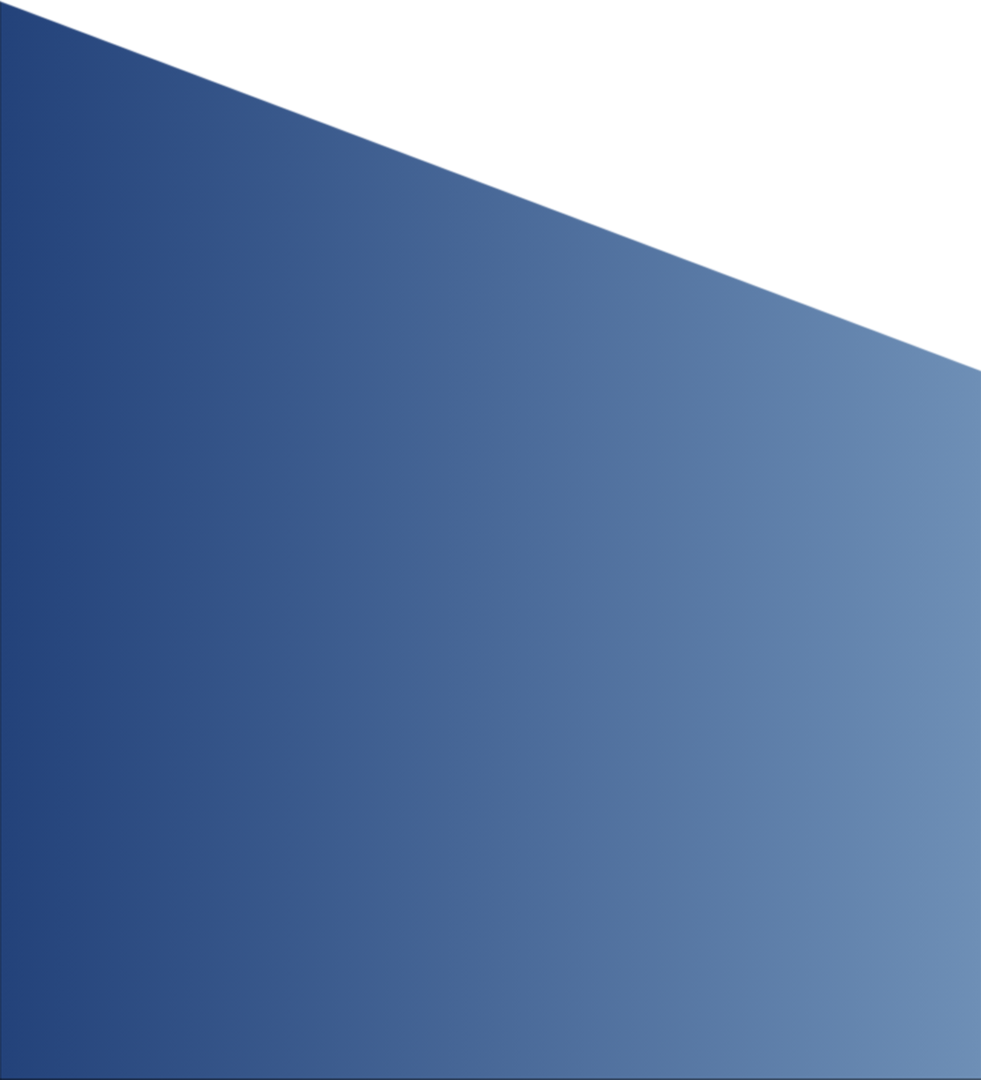
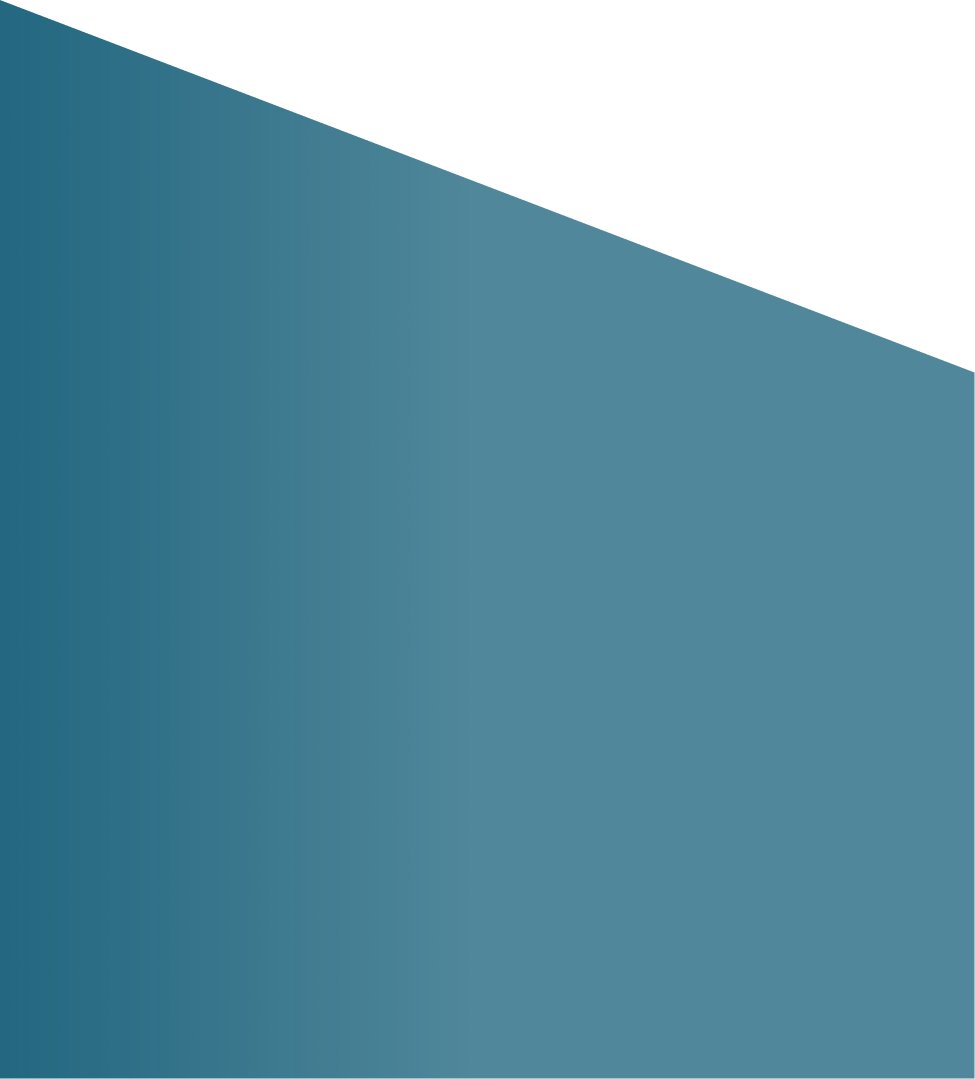
feat: create header

diff --git a/assets/css/global/global.css b/assets/css/global/global.css
@@ -4,8 +4,8 @@
   --cor-branco: #ffffff;
   --cor-preto: #000000;
 
-  --cor-degrade-claro: linear-gradient(90deg, #c8d9e1, #7ca3b8);
-  --cor-degrade-claro-webkit: -webkit-linear-gradient(90deg, #c8d9e1, #7ca3b8);
+  --cor-degrade-claro: linear-gradient(90deg, #6a99a9, #9cbbc6);
+  --cor-degrade-claro-webkit: -webkit-linear-gradient(90deg, #6a99a9, #9cbbc6);
   --cor-degrade-escuro: linear-gradient(90deg, #085571, #39768d);
   --cor-degrade-escuro-webkit: -webkit-linear-gradient(90deg, #085571, #39768d);
   --cor-degrade-branco: linear-gradient(90deg, #e3e3ee, #ffffff);
@@ -13,8 +13,8 @@
 
   --cor-azul-escuro-1: #085571;
   --cor-azul-escuro-2: #39768d;
-  --cor-azul-claro-1: #c8d9e1;
-  --cor-azul-claro-2: #7ca3b8;
+  --cor-azul-claro-1: #6a99a9;
+  --cor-azul-claro-2: #9cbbc6;
 
   --cor-cinza-claro: #e3e3ee;
 
@@ -25,7 +25,7 @@
 /* Personalização do Scrollbar */
 
 html {
-  scrollbar-color: #7ca3b8 #ffffff;
+  scrollbar-color: #9cbbc6 #ffffff;
   scrollbar-width: thin;
 }
 
@@ -43,7 +43,7 @@ html {
 }
 
 ::-webkit-scrollbar-thumb {
-  background-color: #7ca3b8;
+  background-color: #9cbbc6;
   width: 4px;
   height: 4px;
   border-radius: 10px;

diff --git a/assets/css/index/partials/nav.css b/assets/css/index/partials/nav.css
@@ -31,6 +31,37 @@ nav .opcoes a {
   margin: 0 0 0 30px;
 }
 
+a:hover .submenu {
+  display: block;
+}
+
+ul.submenu {
+  display: none;
+  position: absolute;
+  min-width: 160px;
+  box-shadow: 0px 8px 16px 0px rgba(0, 0, 0, 0.2);
+  z-index: 1;
+  border-radius: 10px;
+}
+
+ul.submenu li {
+  list-style: none;
+}
+
+/* Estilização dos links do submenu */
+ul.submenu li {
+  padding: 12px 16px;
+  text-decoration: none;
+  display: block;
+  text-align: left;
+  color: var(--cor-azul-escuro-1);
+}
+
+/* Mudança de cor no hover do submenu */
+ul.submenu li a:hover {
+  background-color: #ddd;
+}
+
 nav .opcoes a.whatsapp {
   display: flex;
   align-items: center;

diff --git a/index.html b/index.html
@@ -65,7 +65,14 @@
       <div class="opcoes">
         <a href="#">Início</a>
         <a href="#">Sobre Mim</a>
-        <a href="#">Serviços</a>
+        <a href="#"
+          >Serviços
+          <ul class="submenu">
+            <li>teste</li>
+            <li>teste</li>
+            <li>teste</li>
+          </ul>
+        </a>
 
         <a class="whatsapp" href="#">
           <img src="./files/images/icone-whatsapp.png" alt="" />
